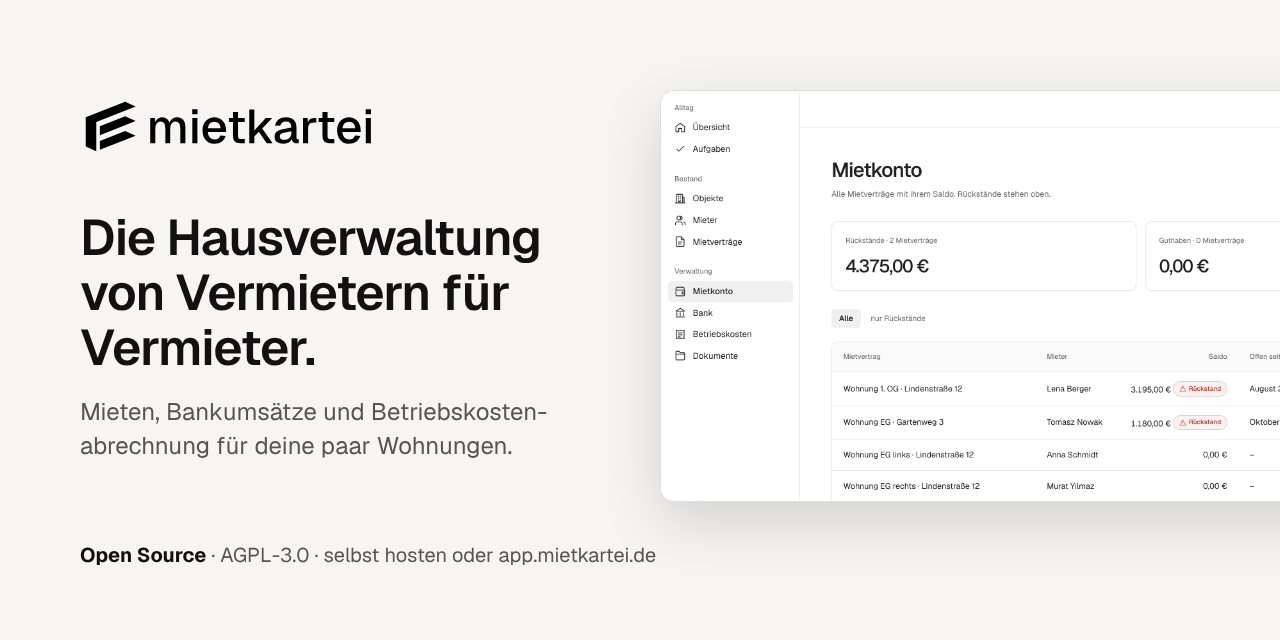
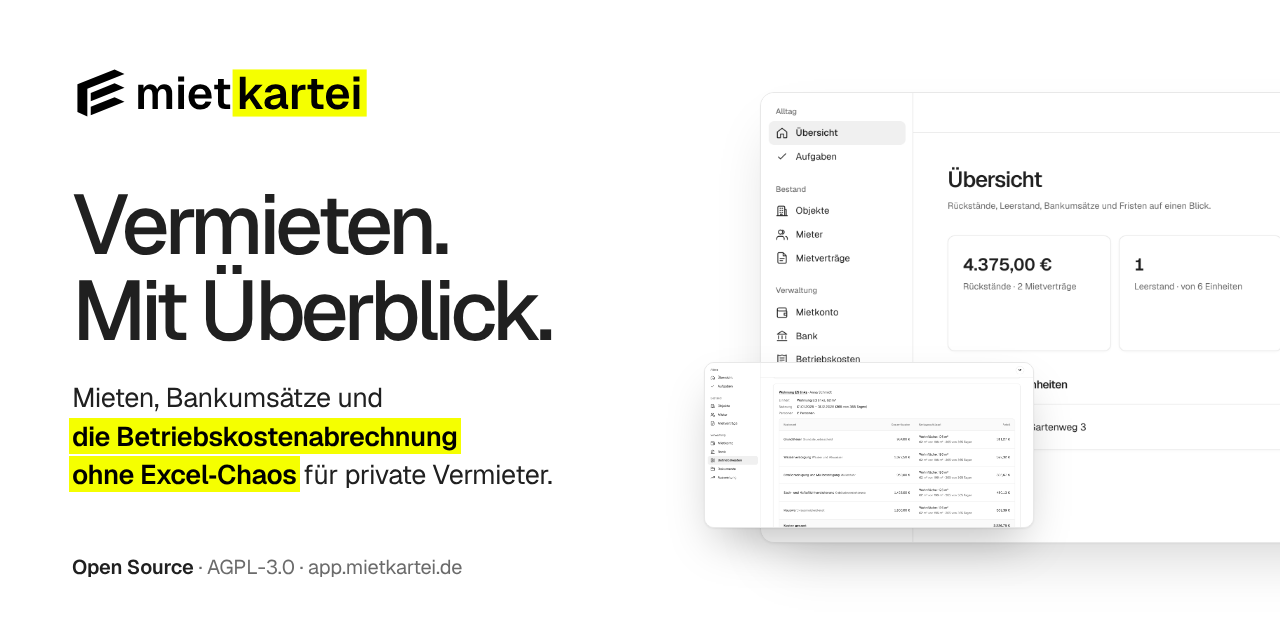
Render the link preview images in the current brand and add them to every public page
The Open Graph image and the GitHub social preview still showed the old
logo and tagline. A Playwright script (npm run social-images) now renders
both from the neon-block lockup, Geist and the README screenshots. The
image URL carries ?v=neon so messengers fetch the new version. The app
layout gives every app page a preview, the Impressum gets the full tag set,
and news and docs pages gain size and alt text.

diff --git a/app/scripts/social-images.js b/app/scripts/social-images.js
@@ -1,0 +1,88 @@
+// Renders the link preview images from the brand assets and the README screenshots: the Open Graph
+// image of the websites (website/assets/social.png, 1200×630) and the GitHub social preview
+// (assets/social-preview.png, 1280×640, uploaded by hand in the repository settings). Run
+// `npm run social-images` after the screenshots or the brand change; PLAYWRIGHT_CHROMIUM_PATH
+// names another Chromium.
+import { mkdtempSync, rmSync, writeFileSync } from 'node:fs';
+import { tmpdir } from 'node:os';
+import path from 'node:path';
+import { pathToFileURL } from 'node:url';
+import { chromium } from '@playwright/test';
+
+const root = path.resolve(import.meta.dirname, '../..');
+const file = (relative) => pathToFileURL(path.join(root, relative)).href;
+
+const images = [
+	{
+		output: 'website/assets/social.png',
+		width: 1200,
+		height: 630,
+		footer: '<strong>mietkartei.de</strong> · Open Source · Daten in der EU'
+	},
+	{
+		output: 'assets/social-preview.png',
+		width: 1280,
+		height: 640,
+		footer: '<strong>Open Source</strong> · AGPL-3.0 · app.mietkartei.de'
+	}
+];
+
+const page = ({ width, height, footer }) => `<!doctype html>
+<html lang="de">
+<head>
+<meta charset="utf-8">
+<style>
+	@font-face { font-family: Geist; src: url("${file('assets/brand/fonts/geist/Geist.ttf')}"); font-weight: 100 900; }
+	* { box-sizing: border-box; }
+	html, body { margin: 0; }
+	body {
+		position: relative; width: ${width}px; height: ${height}px; overflow: hidden;
+		background: #fff; color: #202020; font-family: Geist, sans-serif;
+		-webkit-font-smoothing: antialiased; font-synthesis: none;
+	}
+	.copy { position: absolute; left: 72px; top: 64px; bottom: 60px; width: 560px; display: flex; flex-direction: column; }
+	.lockup { display: block; height: 58px; width: auto; align-self: flex-start; }
+	h1 { margin: auto 0 0; font-size: 84px; font-weight: 500; letter-spacing: -.055em; line-height: 1.02; }
+	p { margin: 26px 0 auto; font-size: 27px; line-height: 1.42; letter-spacing: -.015em; }
+	mark { padding: .02em .12em; margin-inline: -.12em; background: #F5FF00; color: #000; font-weight: 600; -webkit-box-decoration-break: clone; box-decoration-break: clone; }
+	.footer { font-size: 20px; color: #6b6b6b; letter-spacing: -.01em; }
+	.footer strong { color: #202020; font-weight: 600; }
+	.shot { position: absolute; display: block; height: auto; border: 1px solid #e8e8e8; background: #fff; }
+	.main { left: ${width - 520}px; top: 92px; width: 900px; border-radius: 14px; box-shadow: 0 1px 2px rgb(0 0 0 / .04), 0 28px 56px -18px rgb(0 0 0 / .18); }
+	.detail { left: ${width - 576}px; top: ${height - 278}px; width: 330px; border-radius: 10px; box-shadow: 0 1px 2px rgb(0 0 0 / .06), 0 22px 44px -12px rgb(0 0 0 / .26); }
+</style>
+</head>
+<body>
+	<img class="shot main" src="${file('assets/screenshots/uebersicht.png')}" alt="">
+	<img class="shot detail" src="${file('assets/screenshots/abrechnung-mieter.png')}" alt="">
+	<div class="copy">
+		<img class="lockup" src="${file('assets/brand/lockup-highlight.svg')}" alt="">
+		<h1>Vermieten.<br>Mit Überblick.</h1>
+		<p>Mieten, Bankumsätze und<br><mark>die Betriebskostenabrechnung<br>ohne Excel&#8209;Chaos</mark> für private Vermieter.</p>
+		<div class="footer">${footer}</div>
+	</div>
+</body>
+</html>`;
+
+const browser = await chromium.launch(
+	process.env.PLAYWRIGHT_CHROMIUM_PATH
+		? { executablePath: process.env.PLAYWRIGHT_CHROMIUM_PATH }
+		: {}
+);
+// A file page, so the template may load the fonts and images from the repository.
+const folder = mkdtempSync(path.join(tmpdir(), 'mietkartei-social-'));
+try {
+	for (const image of images) {
+		const tab = await browser.newPage({ viewport: { width: image.width, height: image.height } });
+		const html = path.join(folder, 'image.html');
+		writeFileSync(html, page(image));
+		await tab.goto(pathToFileURL(html).href, { waitUntil: 'load' });
+		await tab.evaluate(() => document.fonts.ready);
+		await tab.screenshot({ path: path.join(root, image.output) });
+		await tab.close();
+		console.log(`${image.output} (${image.width}×${image.height})`);
+	}
+} finally {
+	await browser.close();
+	rmSync(folder, { recursive: true, force: true });
+}

diff --git a/website/impressum/index.html b/website/impressum/index.html
@@ -7,6 +7,17 @@
     <title>Impressum | mietkartei</title>
     <meta name="description" content="Angaben zum Anbieter und Kontakt für mietkartei.de.">
     <link rel="canonical" href="https://mietkartei.de/impressum/">
+    <meta property="og:type" content="website">
+    <meta property="og:site_name" content="mietkartei">
+    <meta property="og:locale" content="de_DE">
+    <meta property="og:url" content="https://mietkartei.de/impressum/">
+    <meta property="og:title" content="Impressum | mietkartei">
+    <meta property="og:description" content="Angaben zum Anbieter und Kontakt für mietkartei.de.">
+    <meta property="og:image" content="https://mietkartei.de/assets/social.png?v=neon">
+    <meta property="og:image:width" content="1200">
+    <meta property="og:image:height" content="630">
+    <meta property="og:image:alt" content="mietkartei: Vermieten. Mit Überblick. Mieten, Bankumsätze und die Betriebskostenabrechnung ohne Excel-Chaos, daneben die Übersicht der App.">
+    <meta name="twitter:card" content="summary_large_image">
     <link rel="icon" href="../assets/brand/favicon.svg?v=register" type="image/svg+xml">
     <link rel="icon" href="/favicon.ico" sizes="32x32">
     <link rel="apple-touch-icon" href="/assets/brand/apple-touch-icon.png">

diff --git a/website/index.html b/website/index.html
@@ -19,10 +19,10 @@
     <meta property="og:url" content="https://mietkartei.de/">
     <meta property="og:title" content="mietkartei: Hausverwaltung von Vermietern für Vermieter">
     <meta property="og:description" content="Mieten, Bankumsätze und die Betriebskostenabrechnung für private Vermieter an einem Ort. Open Source, nachvollziehbar gerechnet und ohne Einarbeitung.">
-    <meta property="og:image" content="https://mietkartei.de/assets/social.png">
+    <meta property="og:image" content="https://mietkartei.de/assets/social.png?v=neon">
     <meta property="og:image:width" content="1200">
     <meta property="og:image:height" content="630">
-    <meta property="og:image:alt" content="mietkartei: Vermieten. Mit Überblick. Daneben die Übersicht der App.">
+    <meta property="og:image:alt" content="mietkartei: Vermieten. Mit Überblick. Mieten, Bankumsätze und die Betriebskostenabrechnung ohne Excel-Chaos, daneben die Übersicht der App.">
     <meta name="twitter:card" content="summary_large_image">
     <link rel="preload" href="assets/fonts/geist/Geist.ttf" as="font" type="font/ttf" crossorigin>
     <script type="application/ld+json">

diff --git a/app/src/routes/+layout.svelte b/app/src/routes/+layout.svelte
@@ -236,6 +236,17 @@
 	<link rel="icon" href={favicon} type="image/svg+xml" />
 	<meta name="theme-color" content="#ffffff" media="(prefers-color-scheme: light)" />
 	<meta name="theme-color" content="#181818" media="(prefers-color-scheme: dark)" />
+	<!-- The link preview of every app page; the demo page adds its own title and description. -->
+	<meta property="og:site_name" content="mietkartei" />
+	<meta property="og:locale" content="de_DE" />
+	<meta property="og:image" content="https://mietkartei.de/assets/social.png?v=neon" />
+	<meta property="og:image:width" content="1200" />
+	<meta property="og:image:height" content="630" />
+	<meta
+		property="og:image:alt"
+		content="mietkartei: Vermieten. Mit Überblick. Mieten, Bankumsätze und die Betriebskostenabrechnung ohne Excel-Chaos, daneben die Übersicht der App."
+	/>
+	<meta name="twitter:card" content="summary_large_image" />
 </svelte:head>
 
 <svelte:window

diff --git a/website/neuigkeiten/_layout.html b/website/neuigkeiten/_layout.html
@@ -17,7 +17,10 @@
     <meta property="og:url" content="https://mietkartei.de{path}">
     <meta property="og:title" content="{title}">
     <meta property="og:description" content="{description}">
-    <meta property="og:image" content="https://mietkartei.de/assets/social.png">
+    <meta property="og:image" content="https://mietkartei.de/assets/social.png?v=neon">
+    <meta property="og:image:width" content="1200">
+    <meta property="og:image:height" content="630">
+    <meta property="og:image:alt" content="mietkartei: Vermieten. Mit Überblick. Mieten, Bankumsätze und die Betriebskostenabrechnung ohne Excel-Chaos, daneben die Übersicht der App.">
     <meta name="twitter:card" content="summary_large_image">
     <script type="application/ld+json">{json_ld}</script>
     <link rel="stylesheet" href="/styles.css">

diff --git a/app/src/routes/demo/+page.svelte b/app/src/routes/demo/+page.svelte
@@ -14,15 +14,9 @@
 	<meta name="description" content={description} />
 	<link rel="canonical" href={url} />
 	<meta property="og:type" content="website" />
-	<meta property="og:site_name" content="mietkartei" />
-	<meta property="og:locale" content="de_DE" />
 	<meta property="og:url" content={url} />
 	<meta property="og:title" content={title} />
 	<meta property="og:description" content={description} />
-	<meta property="og:image" content="https://mietkartei.de/assets/social.png" />
-	<meta property="og:image:width" content="1200" />
-	<meta property="og:image:height" content="630" />
-	<meta name="twitter:card" content="summary_large_image" />
 </svelte:head>
 
 <div class="narrow">

diff --git a/docs/overrides/main.html b/docs/overrides/main.html
@@ -22,8 +22,9 @@
   {% if page.canonical_url %}
     <meta property="og:url" content="{{ page.canonical_url }}">
   {% endif %}
-  <meta property="og:image" content="https://mietkartei.de/assets/social.png">
+  <meta property="og:image" content="https://mietkartei.de/assets/social.png?v=neon">
   <meta property="og:image:width" content="1200">
   <meta property="og:image:height" content="630">
+  <meta property="og:image:alt" content="mietkartei: Vermieten. Mit Überblick. Mieten, Bankumsätze und die Betriebskostenabrechnung ohne Excel-Chaos, daneben die Übersicht der App.">
   <meta name="twitter:card" content="summary_large_image">
 {% endblock %}

diff --git a/scripts/build_news.py b/scripts/build_news.py
@@ -127,7 +127,7 @@ def render_post(layout: str, post: Post) -> str:
             "inLanguage": "de-DE",
             "url": SITE + post.path,
             "mainEntityOfPage": SITE + post.path,
-            "image": f"{SITE}/assets/social.png",
+            "image": f"{SITE}/assets/social.png?v=neon",
             "author": {"@type": "Person", "name": "Oliver Hennhöfer"},
             "publisher": {"@id": f"{SITE}/#organization"},
         }),

diff --git a/app/README.md b/app/README.md
@@ -78,6 +78,8 @@ Der Testserver startet mit `E2E=true`. Damit ist der Endpunkt `/api/e2e/seed` ak
 
 `npm run build && npm run screenshots` erneuert die Bildschirmfotos in `assets/screenshots/`. Das Skript startet den Produktions-Build mit einer leeren Datenbank auf Port 4180, legt ein Konto mit den Demodaten an und fotografiert Übersicht, Mietkonto und den Anteil eines Mieters in der Betriebskostenabrechnung. Erneuere sie, wenn sich diese Seiten sichtbar ändern.
 
+`npm run social-images` erzeugt danach die Vorschaubilder für geteilte Links neu: `website/assets/social.png` (1200×630, für Startseite, Neuigkeiten, Dokumentation und App) und `assets/social-preview.png` (1280×640, das Vorschaubild des Repositorys, das unter _Settings → General → Social preview_ von Hand hochgeladen wird). Erhöhe nach einer sichtbaren Änderung den Parameter `?v=` an der Bildadresse in den Meta-Tags, damit Messenger und soziale Netzwerke das neue Bild laden.
+
 ## Datenbankschema ändern
 
 Das Schema steht in `src/lib/server/db/schema.ts`. Nach einer Änderung erzeugt `npm run db:generate` eine neue SQL-Migration in `drizzle/`. Committe die Migration zusammen mit dem Schema; die CI prüft, dass beide zusammenpassen.

diff --git a/.github/HOMEPAGE.md b/.github/HOMEPAGE.md
@@ -27,7 +27,7 @@ Then open [http://127.0.0.1:8002](http://127.0.0.1:8002). Rebuild the output aft
 | `website/robots.txt` | Instructions for search engines, pointing to the sitemap |
 | `website/sitemap.xml` | List of the public pages; add every new page here |
 | `website/llms.txt` | Plain-text summary of the product for AI assistants and AI search ([llms.txt](https://llmstxt.org/)) |
-| `website/assets/social.png` | Preview image (1200×630) for links shared on social media and in messengers |
+| `website/assets/social.png` | Preview image (1200×630) for links shared on social media and in messengers, used by the homepage, news, docs and app; rendered by `npm run social-images` in `app/` |
 | `website/wrangler.toml` | Cloudflare Worker and custom domain |
 | `scripts/build_homepage.py` | Builds the public output with the shared assets |
 | `scripts/build_news.py` | Renders the news pages, the RSS feed, the homepage teaser and their sitemap entries |
